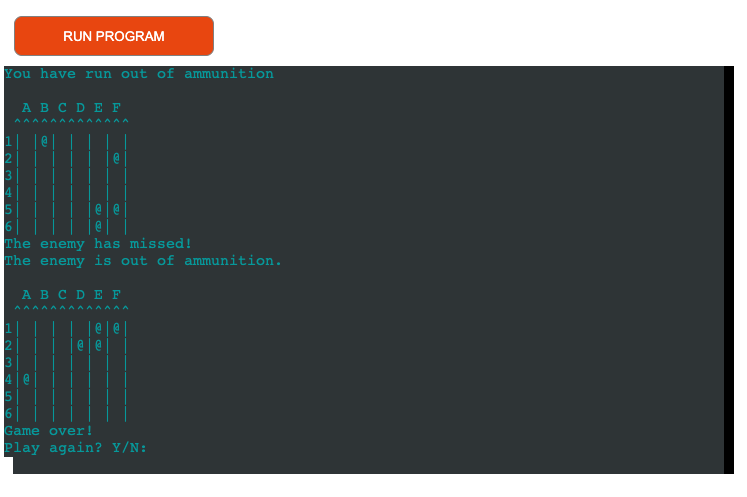
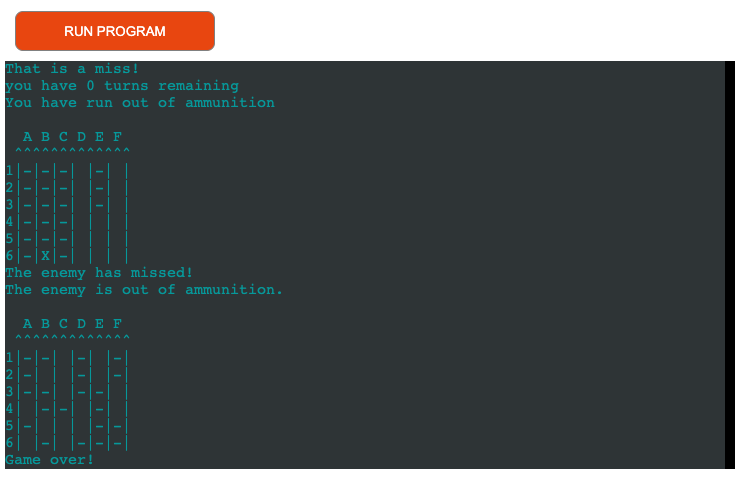
ADD:User stories images

Changed region(s): [[0.0, 0.0, 0.9853, 0.9958], [0.1539, 0.7322, 0.1847, 0.7908]]

diff --git a/run.py b/run.py
@@ -152,7 +152,7 @@ class Battleship:
         For statement loops through ships positions.
         Generates random integers and assigns 'X' as a ship in location.
         """
-        for i in range(1):
+        for i in range(5):
             self.x_row, self.y_col = random.randint(0, 5), random.randint(0, 5)
             self.board[self.x_row][self.y_col] = '@'
         return self.board

diff --git a/README.md b/README.md
@@ -186,17 +186,16 @@ Checked on Code institute validator - https://pep8ci.herokuapp.com/
 |-------------|------------|---------------------|-------------------|
 | Function that runs after game parameters are complete. | After a, end game condition is met, print statement. | End game result is printed back to the user. | Working as expected. |
 
-
+![Play again](DOCS/game/play-again.png)
 
 7. To be able to restart or exit the game when finished.
 
 | **Feature** | **Action** | **Expected Result** | **Actual Result** |
 |-------------|------------|---------------------|-------------------|
-| Game Over. | After a game over condition is met. User inputs Y or N | Input of Y re-runs the game. Input of N exits the program. | Working as implemented. |
+| End game function. | After a game over condition is met. User inputs Y or N afer prompt. | Input of Y re-runs the game. Input of N exits the program. | Working as expected. |
 
-<details><summary>Game Over</summary>
-<img src="docs/user_testing/user_test_7_replay.png">
-</details>
+![Play again, yes](DOCS/game/play-again-yes.png)
+![Play again, no](DOCS/game/play-again-no.png)
 
 ## Bugs
 
